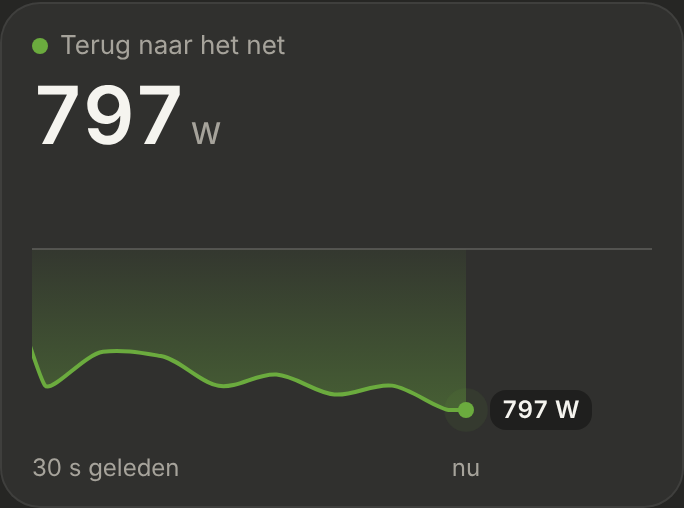
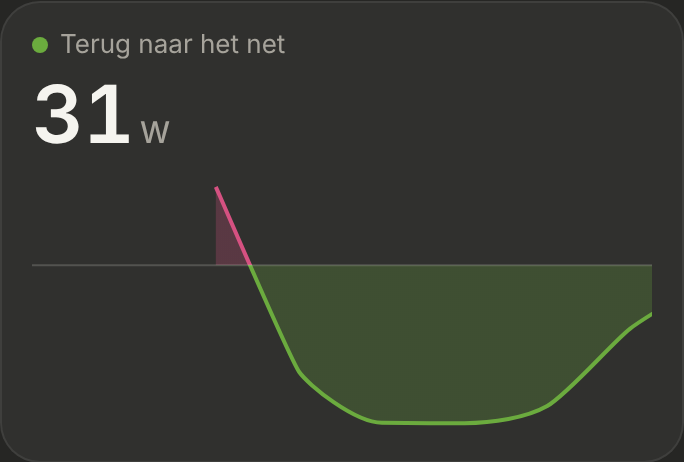
Energie: Nu drawn and scrolled entirely by ApexCharts
The live line is now a plain ApexCharts area chart: the last 30 s with
the newest point at the right edge, scrolled by ApexCharts itself
(xaxis.range), pink above zero and green below through its threshold
colours, and the zero line as an annotation. The dot, the pulse, the
value label, the time labels and the 70% position are gone.

Claude-Session: https://claude.ai/code/session_01KM6EwXvT22zbGn1J5Xot1E

diff --git a/src/components/energy/EnergyNow.tsx b/src/components/energy/EnergyNow.tsx
@@ -1,11 +1,13 @@
 import type { ApexOptions } from 'apexcharts';
-import { useEffect, useRef, useState, type CSSProperties } from 'react';
+import type { CSSProperties } from 'react';
 import Chart from 'react-apexcharts/core';
-// Only the area chart: the full ApexCharts would add ~0.5 MB to the bundle.
+// Only the area chart and annotations (the zero line): the full ApexCharts
+// would add ~0.5 MB to the bundle.
 import 'apexcharts/area';
+import 'apexcharts/features/annotations';
 import { ENERGY_NOW } from '../../config/energy';
 import { useEasedNumber } from '../../hooks/useEasedNumber';
-import { REMEMBER_MILLISECONDS, SAMPLE_EVERY_MILLISECONDS, useLivePowerSamples, type PowerSample } from '../../hooks/useLivePowerSamples';
+import { REMEMBER_MILLISECONDS, SAMPLE_EVERY_MILLISECONDS, useLivePowerSamples } from '../../hooks/useLivePowerSamples';
 import { usePrefersReducedMotion } from '../../hooks/usePrefersReducedMotion';
 import { numberState, readableNumber } from '../../lib/statistics';
 import type { HomeAssistant } from '../../types/hass';
@@ -14,22 +16,12 @@ interface Props {
   hass: HomeAssistant;
 }
 
-/** "Nu" sits at 70% of the card's width; the line to its left is the last 30 s. */
-const NOW_AT_SHARE_OF_WIDTH = 0.7;
-const WINDOW_MILLISECONDS = REMEMBER_MILLISECONDS / NOW_AT_SHARE_OF_WIDTH;
-/** How often the line slides on: 20 times a second is smooth at its ~7 px per second. */
-const SLIDE_EVERY_MILLISECONDS = 50;
 const CHART_HEIGHT = 130;
-/** The smallest range the chart shows, so a steady 150 W isn't drawn as a mountain. */
-const SMALLEST_RANGE_WATTS = 300;
-/** As in the Verbruik tiles: ApexCharts applies a gradient's opacity twice, so it gets the square root. */
-const FILL_OPACITY_AWAY_FROM_ZERO = 0.38 ** 0.5;
-const FILL_OPACITY_AT_ZERO = 0.06 ** 0.5;
 
 /**
- * "Nu" on the Energie page (docs/design/energie-nu, option B, first step): what
- * goes through the P1 meter right now, as a number that counts to each new
- * value, and a live line that starts when the page opens.
+ * "Nu" on the Energie page (docs/design/energie-nu): what goes through the P1
+ * meter right now, as a number that counts to each new value, and a live line
+ * of the last 30 s.
  */
 export function EnergyNow({ hass }: Props) {
   const currentWatts = numberState(hass.states, ENERGY_NOW.gridPower);
@@ -59,155 +51,61 @@ function GridPowerCard({ currentWatts }: { currentWatts: number }) {
         {readableWatts(shownWatts)}
         <small>W</small>
       </p>
-      <LivePowerLine currentWatts={currentWatts} shownWatts={shownWatts} isMotionReduced={isMotionReduced} />
+      <LivePowerLine currentWatts={currentWatts} />
     </div>
   );
 }
 
-interface LivePowerLineProps {
-  currentWatts: number;
-  /** The end of the line: the current power, easing to each new value like the big number. */
-  shownWatts: number;
-  isMotionReduced: boolean;
-}
-
 /**
- * The line of the last 30 s: it grows from the left edge until "nu" reaches
- * 70%, then slides left; pink above zero, green below. The zero line, the dot,
- * its pulse and the value next to it are HTML on top: ApexCharts' sparkline
- * mode leaves out annotations, and the pulse keeps running while it redraws.
+ * The last 30 s, a point every 4 s, the newest at the right edge. ApexCharts
+ * scrolls the line itself (`xaxis.range`), and colours it pink above zero and
+ * green below (`plotOptions.line.colors`).
  */
-function LivePowerLine({ currentWatts, shownWatts, isMotionReduced }: LivePowerLineProps) {
+function LivePowerLine({ currentWatts }: { currentWatts: number }) {
   const samples = useLivePowerSamples(currentWatts);
-  const [openedAt] = useState(() => Date.now());
-  const now = useSlidingClock(isMotionReduced ? SAMPLE_EVERY_MILLISECONDS : SLIDE_EVERY_MILLISECONDS);
-
-  const isFull = now - openedAt >= REMEMBER_MILLISECONDS;
-  const windowStart = Math.max(openedAt, now - REMEMBER_MILLISECONDS);
-  const nowShareOfWidth = (now - windowStart) / WINDOW_MILLISECONDS;
-  const lineWithNow = [...samples, { time: now, watts: shownWatts }];
-  const powerRange = useEasedRange(lineWithNow.map((sample) => sample.watts));
-  const shareOfHeightFor = (watts: number) => (powerRange.top - watts) / (powerRange.top - powerRange.bottom);
-  const { fromGrid, backToGrid } = splitAtZero(lineWithNow);
+  // ApexCharts recognises a scroll from 3 points on; before that it would morph the shape.
+  const canScroll = samples.length > 3;
+  const wattsOnTheLine = samples.map((sample) => sample.watts);
 
   const options: ApexOptions = {
-    chart: { sparkline: { enabled: true }, animations: { enabled: false }, toolbar: { show: false }, zoom: { enabled: false } },
-    stroke: { width: 2, curve: 'monotoneCubic', lineCap: 'round' },
-    colors: [ENERGY_NOW.fromGridColor, ENERGY_NOW.backToGridColor],
-    // Strongest away from the zero line, fading towards it: top to bottom for pink,
-    // the other way round for green, which lies below zero.
-    fill: {
-      type: 'gradient',
-      gradient: {
-        type: 'vertical',
-        shade: 'light',
-        shadeIntensity: 0,
-        opacityFrom: [FILL_OPACITY_AWAY_FROM_ZERO, FILL_OPACITY_AT_ZERO],
-        opacityTo: [FILL_OPACITY_AT_ZERO, FILL_OPACITY_AWAY_FROM_ZERO],
-        stops: [0, 100],
+    chart: {
+      sparkline: { enabled: true },
+      // Each scroll lasts until the next point, so the line keeps moving.
+      animations: { enabled: true, dynamicAnimation: { enabled: canScroll, speed: SAMPLE_EVERY_MILLISECONDS } },
+      toolbar: { show: false },
+      zoom: { enabled: false },
+    },
+    // A non-solid line fill makes ApexCharts colour the line by the threshold too, not only the area.
+    stroke: { width: 2, curve: 'monotoneCubic', fill: { type: 'gradient', opacity: 1 } },
+    fill: { type: 'solid', opacity: 0.25 },
+    plotOptions: {
+      area: { fillTo: 'origin' },
+      line: {
+        colors: { threshold: 0, colorAboveThreshold: ENERGY_NOW.fromGridColor, colorBelowThreshold: ENERGY_NOW.backToGridColor },
       },
     },
-    xaxis: { type: 'numeric', min: windowStart, max: windowStart + WINDOW_MILLISECONDS },
-    yaxis: { show: false, labels: { show: false }, min: powerRange.bottom, max: powerRange.top },
+    markers: { size: 0 },
+    xaxis: { type: 'numeric', range: REMEMBER_MILLISECONDS },
+    // Always include zero, so the zero line is in view, with a little room above and below.
+    // (`|| 1`: a line that is exactly 0 W still gets a range.)
+    yaxis: { show: false, min: Math.min(0, ...wattsOnTheLine) * 1.1, max: Math.max(0, ...wattsOnTheLine) * 1.1 || 1 },
+    annotations: { yaxis: [{ y: 0, borderColor: 'rgba(245, 244, 239, 0.18)', strokeDashArray: 0 }] },
     tooltip: { enabled: false },
-    legend: { show: false },
     states: { hover: { filter: { type: 'none' } }, active: { filter: { type: 'none' } } },
   };
 
-  const nowPosition = { left: `${nowShareOfWidth * 100}%`, top: `${shareOfHeightFor(shownWatts) * 100}%` };
-
   return (
-    <>
-      <div className="energy-chart" aria-hidden>
-        <Chart
-          type="area"
-          height={CHART_HEIGHT}
-          width="100%"
-          series={[
-            { name: 'Van het net', data: fromGrid },
-            { name: 'Terug naar het net', data: backToGrid },
-          ]}
-          options={options}
-        />
-        <span className="energy-chart__zero" style={{ top: `${shareOfHeightFor(0) * 100}%` }} />
-        <span className={`energy-chart__pulse${isMotionReduced ? '' : ' is-pulsing'}`} style={nowPosition} />
-        <span className="energy-chart__dot" style={nowPosition} />
-        <span className="energy-chart__value" style={nowPosition}>
-          {readableWatts(shownWatts)} W
-        </span>
-      </div>
-      <div className="energy-chart__axis" aria-hidden>
-        {isFull && <span>30 s geleden</span>}
-        <span className="energy-chart__now" style={{ left: nowPosition.left }}>
-          nu
-        </span>
-      </div>
-    </>
+    <div className="energy-chart" aria-hidden>
+      <Chart
+        type="area"
+        height={CHART_HEIGHT}
+        width="100%"
+        series={[{ name: 'Net', data: samples.map((sample) => [sample.time, sample.watts]) }]}
+        options={options}
+      />
+    </div>
   );
 }
 
 /** "850" for −850 W: the label says which way it goes, so no minus sign. */
 const readableWatts = (watts: number) => readableNumber(Math.round(Math.abs(watts)), 0);
-
-/** The current time, renewed every `everyMilliseconds`, for the line to slide on. */
-function useSlidingClock(everyMilliseconds: number): number {
-  const [now, setNow] = useState(() => Date.now());
-
-  useEffect(() => {
-    const slideTimer = window.setInterval(() => setNow(Date.now()), everyMilliseconds);
-    return () => window.clearInterval(slideTimer);
-  }, [everyMilliseconds]);
-
-  return now;
-}
-
-/**
- * The chart's range: from below the lowest to above the highest value, always
- * including zero, so the zero line drops to the bottom while only taking from
- * the grid. It eases to a new range instead of jumping when a peak comes in or
- * drops off.
- */
-function useEasedRange(wattsOnTheLine: number[]): { top: number; bottom: number } {
-  const highestWatts = Math.max(0, ...wattsOnTheLine);
-  const lowestWatts = Math.min(0, ...wattsOnTheLine);
-  const rangeWatts = Math.max(highestWatts - lowestWatts, SMALLEST_RANGE_WATTS);
-  const targetTop = highestWatts + rangeWatts * 0.15;
-  const targetBottom = lowestWatts < 0 ? lowestWatts - rangeWatts * 0.15 : 0;
-
-  const easedRange = useRef({ top: targetTop, bottom: targetBottom });
-  easedRange.current = {
-    top: easedRange.current.top + (targetTop - easedRange.current.top) * 0.15,
-    bottom: easedRange.current.bottom + (targetBottom - easedRange.current.bottom) * 0.15,
-  };
-
-  return easedRange.current;
-}
-
-type ChartPoint = [number, number | null];
-
-/**
- * The line as two series: taking from the grid (zero and up) and feeding back
- * (zero and down). Where the line crosses zero, both get a point exactly at
- * zero, so pink and green meet on the zero line; elsewhere the other series
- * has a gap.
- */
-function splitAtZero(samples: PowerSample[]): { fromGrid: ChartPoint[]; backToGrid: ChartPoint[] } {
-  const fromGrid: ChartPoint[] = [];
-  const backToGrid: ChartPoint[] = [];
-
-  samples.forEach((sample, sampleNumber) => {
-    const previousSample = samples[sampleNumber - 1];
-    const crossesZero = previousSample !== undefined && previousSample.watts * sample.watts < 0;
-    if (crossesZero) {
-      const shareUntilZero = previousSample.watts / (previousSample.watts - sample.watts);
-      const zeroTime = previousSample.time + (sample.time - previousSample.time) * shareUntilZero;
-      fromGrid.push([zeroTime, 0]);
-      backToGrid.push([zeroTime, 0]);
-    }
-
-    fromGrid.push([sample.time, sample.watts >= 0 ? sample.watts : null]);
-    backToGrid.push([sample.time, sample.watts <= 0 ? sample.watts : null]);
-  });
-
-  return { fromGrid, backToGrid };
-}

diff --git a/src/styles.css b/src/styles.css
@@ -2036,46 +2036,8 @@ a.pill-button { text-decoration: none; }
 
 .energy-card__value small { margin-left: 3px; font-size: 15px; font-weight: 500; color: var(--text-muted); }
 
-/* The live line: ApexCharts draws the line, the dot and its value sit on top. */
-.energy-chart { position: relative; height: 130px; margin-top: 8px; }
-
-/* ApexCharts draws a dot for a point on its own between two gaps, whatever its marker size. */
-.energy-chart .apexcharts-marker { display: none; }
-
-.energy-chart__zero { position: absolute; left: 0; right: 0; height: 1px; background: rgba(245, 244, 239, 0.18); }
-
-.energy-chart__dot,
-.energy-chart__pulse {
-  position: absolute;
-  width: 8px;
-  height: 8px;
-  margin: -4px 0 0 -4px;
-  border-radius: 50%;
-  background: var(--energy-color);
-}
-
-.energy-chart__pulse.is-pulsing { animation: energy-pulse 1.6s ease-out infinite; }
-
-@keyframes energy-pulse {
-  from { transform: scale(1); opacity: 0.6; }
-  to { transform: scale(3); opacity: 0; }
-}
-
-.energy-chart__value {
-  position: absolute;
-  margin: -10px 0 0 12px;
-  padding: 2px 6px;
-  border-radius: 8px;
-  background: rgba(0, 0, 0, 0.35);
-  font-size: 12px;
-  font-weight: 600;
-  line-height: 16px;
-  white-space: nowrap;
-  font-variant-numeric: tabular-nums;
-}
-
-.energy-chart__axis { position: relative; height: 16px; margin-top: 6px; font-size: 12px; color: var(--text-muted); }
-.energy-chart__now { position: absolute; top: 0; transform: translateX(-50%); }
+/* The live line, drawn entirely by ApexCharts. */
+.energy-chart { margin-top: 8px; }
 
 /* ---------------------------------------------------------------- lawn mower (docs/design/lawn-mower) */
 

diff --git a/docs/design/energie-nu/README.md b/docs/design/energie-nu/README.md
@@ -2,17 +2,15 @@
 
 The "Nu" section at the top of the [Energie](../nav-categories/README.md) page: what goes through the P1 meter right now, with a live line. Dark mode only. Built step by step; this is the first step.
 
-> ✅ **Option B approved; step 1 built** (3 November): the label, the big number and the live line. Don't change proportions or behaviour without asking first.
+> ✅ **Option B approved; step 1 built** (3 November), then **simplified** the same day: the line is drawn and scrolled entirely by ApexCharts. Don't change proportions or behaviour without asking first.
 >
 > Code: `EnergyNow.tsx` in `src/components/energy/`, `src/config/energy.ts`, the hooks `useLivePowerSamples`, `useEasedNumber` and `usePrefersReducedMotion`, styles under "Energie: Nu" in `src/styles.css`.
 
-The first options (A: flow diagram, B: big number with a live line, C: per phase): [`options.png`](./options.png) ([`options.html`](./options.html)). The approved live behaviour, animated with simulated values: [`mockup.html`](./mockup.html) (still: [`mockup.png`](./mockup.png)). As built (dev mode, the mock's wandering P1 value), growing, feeding back, and full:
-
-![Growing](./built-growing.png)
+The first options (A: flow diagram, B: big number with a live line, C: per phase): [`options.png`](./options.png) ([`options.html`](./options.html)). The first live design, with "nu" at 70% and a dot on the line (built, then dropped for the simpler version): [`mockup.html`](./mockup.html) (still: [`mockup.png`](./mockup.png)). As built (dev mode, a mock value swinging between taking and feeding back):
 
 ![Feeding back](./built-feeding-back.png)
 
-![Full](./built-full.png)
+![From the grid](./built-from-grid.png)
 
 ## Source
 
@@ -26,18 +24,17 @@ Only the P1 meter: `sensor.p1_meter_power` (`ENERGY_NOW.gridPower`), positive wh
 
 ## The live line
 
-- **No history:** the line starts when the card appears, at the left edge, and is forgotten when you leave the page.
-- **A point every 4 s,** with the meter's latest value. The meter reaches HA about every 3 s, so no value is taken twice.
-- **It grows** until "nu" is at **70%** of the width, which takes **30 s**. From then on "nu" stays at 70% and the line **slides** left, 20 times a second; points older than 30 s are forgotten, except one just past the left edge so the line runs to it.
-- **The end of the line is "nu":** the current value, easing to each new value like the big number. A pulsing dot sits on it, with the value in a small label beside it.
-- **Pink above the zero line, green below,** meeting exactly on the zero line where the line crosses it. The fill is strongest along the line and fades towards zero.
-- **The scale** always includes zero: only taking from the grid puts the zero line at the bottom. It eases to a new range instead of jumping. At least 300 W of range, so a steady low value isn't drawn as a mountain.
-- **Under the line:** "30 s geleden" on the left (once full) and "nu" under the dot.
-- **Reduce motion** (the device setting): no counting, no pulse, and the line moves once every 4 s instead of sliding.
+- **The last 30 s, a point every 4 s,** with the meter's latest value (it reaches HA about every 3 s, so no value is taken twice). It starts when the card appears; nothing is kept between visits.
+- **The newest point at the right edge.** ApexCharts scrolls the line itself (`xaxis.range`): it recognises each update as a continuation of the previous one and slides it at constant speed over the 4 s until the next point.
+- **Pink above the zero line, green below**, line and fill, through ApexCharts' threshold colours (`plotOptions.line.colors`); the fill is an even 25% tint.
+- **The zero line** is an ApexCharts annotation. The scale always includes zero, with 10% room above and below.
+- **No dot, value label or time labels** on the line: the big number shows the current value.
+- **Reduce motion:** no counting; ApexCharts leaves out its own animations.
 
-## How it's drawn
+## Known limits
 
-ApexCharts (the area chart, as in the Verbruik tiles), with its own animation **off**: it animates each point by index, so with points dropping off the left the whole line would wobble. Instead the time window moves 20 times a second. Two series, one per colour, with a point at exactly zero where the line crosses it. The zero line, the dot, the pulse and the value label are HTML on top: ApexCharts' sparkline mode leaves out annotations, and the pulse would restart on every redraw.
+- **A big jump of the scale** (e.g. 200 W to 2 kW when a kettle switches on, and back when it scrolls out) is more than ApexCharts' scroll accepts (5×). That update morphs instead of sliding, once.
+- **The first three points** are drawn without animation: ApexCharts recognises a scroll only from three points on.
 
 ## Next steps
 
